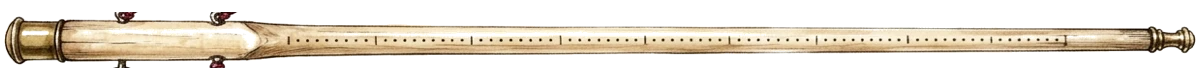
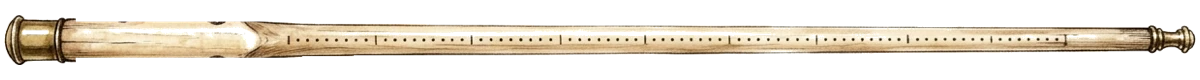
fix(scale): remove cropped beam nubs, clear weight loop alpha & fit pan/weight cords behind ivory beam

diff --git a/src/components/BrassScaleRig.tsx b/src/components/BrassScaleRig.tsx
@@ -439,31 +439,11 @@ export const BrassScaleRig: React.FC<BrassScaleRigProps> = ({
               {/* Đề: the cord loop the healer lifts the steelyard by */}
               <path d={`M${PIVOT.x} ${PIVOT.y} L${PIVOT.x} 16`} stroke="#6B4A26" strokeWidth="3" />
               <ellipse cx={PIVOT.x} cy="12" rx="11" ry="9" fill="none" stroke="#6B4A26" strokeWidth="3" />
-              <image
-                href="./art/tools/steelyard-beam.webp"
-                x="0"
-                y={PIVOT.y - 40}
-                width="1200"
-                height="80"
-                transform={`rotate(${springAngle.toFixed(2)} ${PIVOT.x} ${PIVOT.y})`}
-              />
-              {/* Pan on three cords, hanging plumb from the hook */}
-              {[-82, 0, 82].map((dx) => (
-                <line key={dx} x1={hook.x} y1={hook.y} x2={hook.x + dx} y2={hook.y + 128} stroke="#8A6A3E" strokeWidth="2" />
+              {/* Pan on three cords, hanging plumb from the hook behind the ivory beam */}
+              {[-72, 0, 72].map((dx) => (
+                <line key={dx} x1={hook.x} y1={hook.y + 4} x2={hook.x + dx} y2={hook.y + 132} stroke="#8A6A3E" strokeWidth="2" />
               ))}
-              {panHerb && (
-                <foreignObject x={hook.x - 36} y={hook.y + 78} width="72" height="64">
-                  <div className="steelyard-pan-herb">
-                    <BotanicalSvg herbId={panHerb.id} motif={panHerb.motif} size={58} bare />
-                  </div>
-                </foreignObject>
-              )}
-              <image href="./art/tools/steelyard-pan.webp" x={hook.x - 90} y={hook.y + 112} width="180" height="60" />
-              <text x={hook.x} y={hook.y + 196} className="steelyard-pan-label" textAnchor="middle">
-                {panMeta.short}
-                {panHerb ? ` · ${panHerb.name}` : ' · trống'}
-              </text>
-              {/* Quả cân on its cord: drag along the beam (or tap a sao) to balance */}
+              {/* Quả cân cord behind the ivory beam */}
               <g
                 role="slider"
                 tabIndex={0}
@@ -480,9 +460,29 @@ export const BrassScaleRig: React.FC<BrassScaleRigProps> = ({
                   setWeightTien(weightTien + step);
                 }}
               >
-                <line x1={bob.x} y1={bob.y} x2={bob.x} y2={bob.y + 44} stroke="#6B4A26" strokeWidth="2.4" />
+                <line x1={bob.x} y1={bob.y + 4} x2={bob.x} y2={bob.y + 44} stroke="#6B4A26" strokeWidth="2.4" />
                 <image href="./art/tools/steelyard-weight.webp" x={bob.x - 27} y={bob.y + 38} width="54" height="72" />
               </g>
+              <image
+                href="./art/tools/steelyard-beam.webp"
+                x="0"
+                y={PIVOT.y - 40}
+                width="1200"
+                height="80"
+                transform={`rotate(${springAngle.toFixed(2)} ${PIVOT.x} ${PIVOT.y})`}
+              />
+              {panHerb && (
+                <foreignObject x={hook.x - 36} y={hook.y + 78} width="72" height="64">
+                  <div className="steelyard-pan-herb">
+                    <BotanicalSvg herbId={panHerb.id} motif={panHerb.motif} size={58} bare />
+                  </div>
+                </foreignObject>
+              )}
+              <image href="./art/tools/steelyard-pan.webp" x={hook.x - 90} y={hook.y + 112} width="180" height="60" />
+              <text x={hook.x} y={hook.y + 196} className="steelyard-pan-label" textAnchor="middle">
+                {panMeta.short}
+                {panHerb ? ` · ${panHerb.name}` : ' · trống'}
+              </text>
             </svg>
             <div className={`steelyard-reading ${panHerb && isWeighed(panRole) ? 'is-level' : ''}`} role="status">
               {reading}
